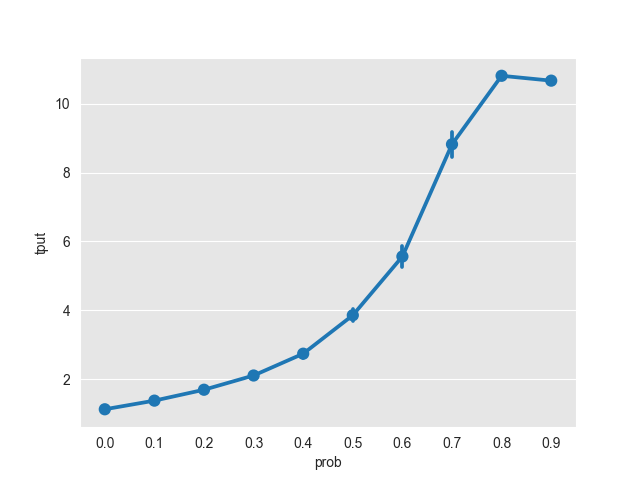
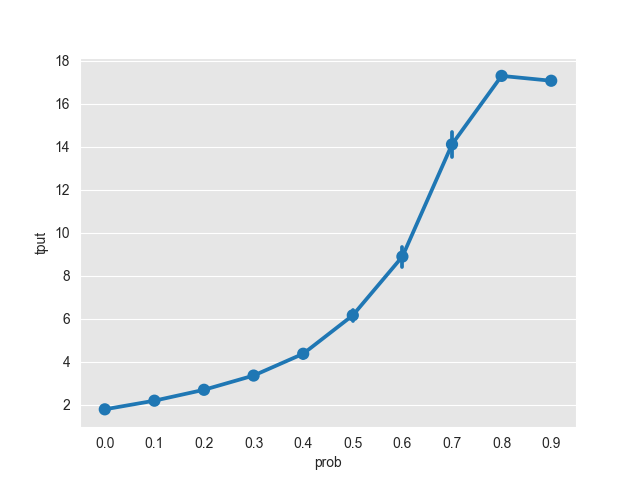
fix 8

diff --git a/pa2/pa2.cpp b/pa2/pa2.cpp
@@ -385,7 +385,7 @@ void Simulation_done(void) {
     cout << "==================================================" << endl;
     cout << "Throughput: "
          << (s.origin_A + s.retrans_A) * 8 * sizeof(pkt) / time_now << endl;
-    cout << "Goodput: " << s.deliver_B * sizeof(msg) / time_now << endl;
+    cout << "Goodput: " << s.deliver_B * 8 * sizeof(msg) / time_now << endl;
 }
 
 /*****************************************************************

diff --git a/pa2part2correct/pa2.cpp b/pa2part2correct/pa2.cpp
@@ -426,7 +426,7 @@ void Simulation_done(void) {
     cout << "==================================================" << endl;
     cout << "Throughput: "
          << (s.origin_A + s.retrans_A) * 8 * sizeof(pkt) / time_now << endl;
-    cout << "Goodput: " << s.deliver_B * sizeof(msg) / time_now << endl;
+    cout << "Goodput: " << s.deliver_B * 8 * sizeof(msg) / time_now << endl;
 }
 
 /*****************************************************************
